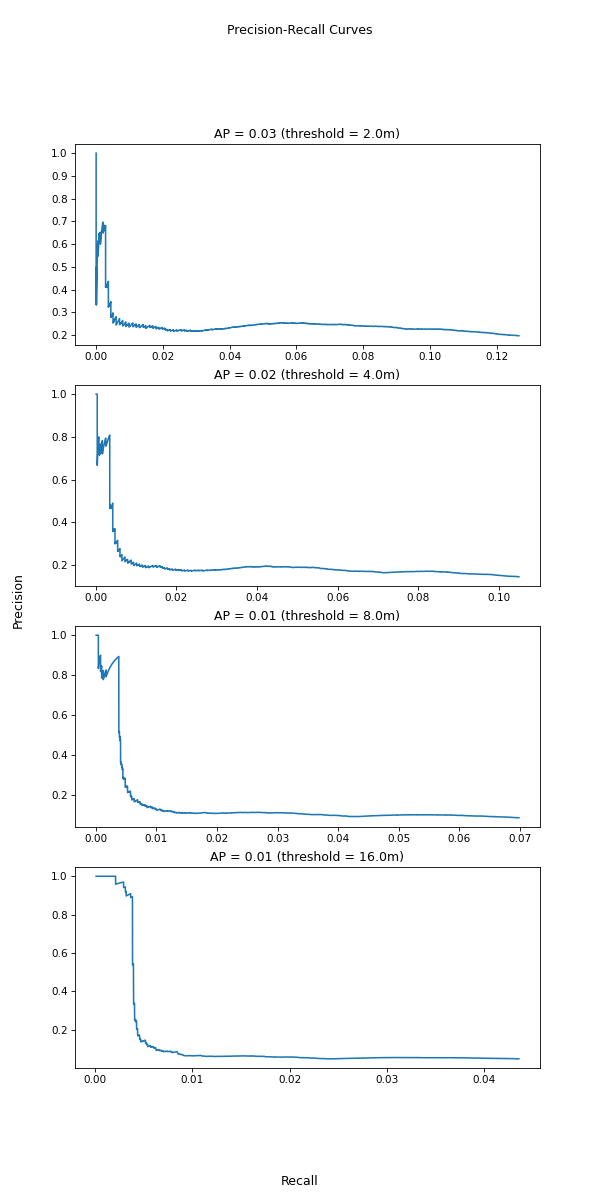
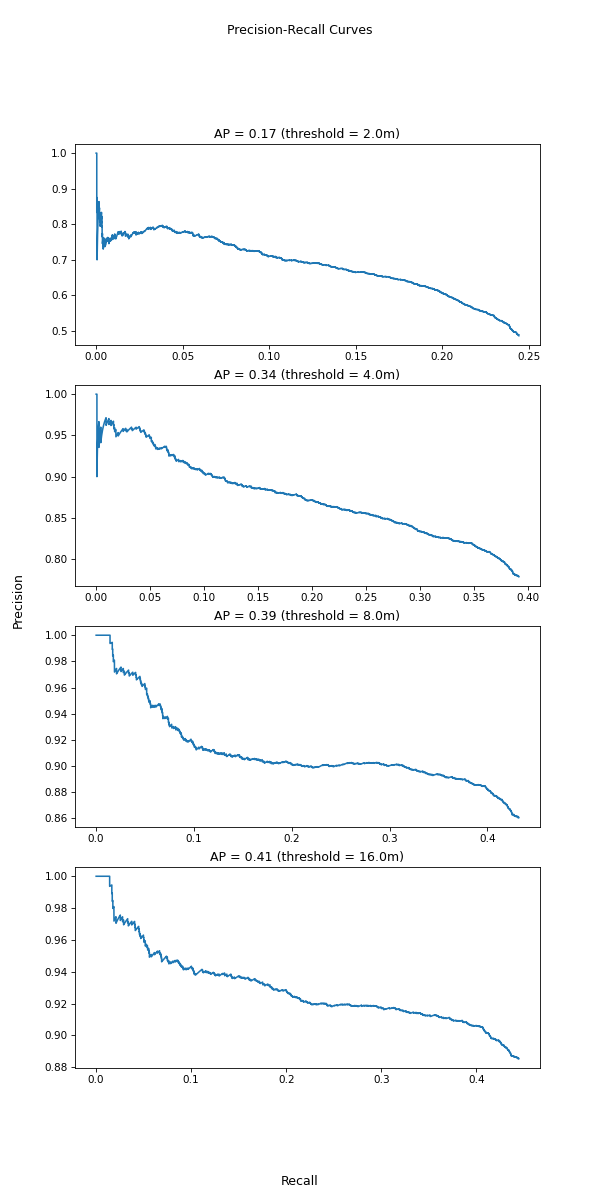
re-implement 2.3 following TA's instructions, with outputs

diff --git a/detection/metrics/average_precision.py b/detection/metrics/average_precision.py
@@ -63,52 +63,63 @@ def compute_precision_recall_curve(
         A precision/recall curve.
     """
     # TODO: Replace this stub code.
-    detections = torch.tensor([])
-    labels = torch.tensor([])
-    scores = torch.tensor([])
-    for i, frame in enumerate(frames):
+    all_detections_binary = torch.tensor([])
+    labels_count = 0
+    all_scores = torch.tensor([])
+    for _, frame in enumerate(frames):
         batch_detections = frame.detections.centroids
-        detections = torch.cat((detections, batch_detections), dim=0)
         batch_labels = frame.labels.centroids
-        labels = torch.cat((labels, batch_labels), dim=0)
         batch_scores = frame.detections.scores
-        scores = torch.cat((scores, batch_scores), dim=0)
+        d = batch_detections.shape[0]
+        l = batch_labels.shape[0]
+        labels_count += l
 
-    D = detections.shape[0]
-    L = labels.shape[0]
-    precision = torch.zeros(D)
-    recall = torch.zeros(D)
-    # from high to low
-    _ , indices = torch.sort(scores, descending=True)
-    sorted_detections = detections[indices, :]
-    
-    # whether distance between i-th detection and j-th label  <= threshold is in truth_table[j][i]
-    # 
-    # whether i-th detection matches j-th label                            is in match_table[j][i]
-    #
-    #                        detection
-    #         [   [                              ],
-    # labels      [                              ] ]
-    #
-    truth_table = ((sorted_detections.reshape(1, D, 2) - labels.reshape(L, 1, 2)).norm(dim=-1) <= threshold).long().to('cuda')
-    # in each row, only first 1 should be kept. Remove others 
-    max_ix_d = truth_table.argmax(dim=-1)
-    max_ix_2d = torch.stack([torch.arange(L).to('cuda'), max_ix_d], dim=-1)
-    match_table = torch.zeros(truth_table.shape).to('cuda')
-    match_table[max_ix_2d[:, 0], max_ix_2d[:, 1]] = 1
-    indices = truth_table.sum(dim=-1) == 0
-    match_table[indices] = 0
-    
-    for i in range(D):
-        TP = match_table[:i+1, :].any(dim=0).sum().item()
-        FP = i + 1 - TP
-        FN = L - match_table[:i+1, :].any(dim=1).sum().item()
+        # in binary array, 0 means unmatched and 1 means matched
+        detections_match_binary = torch.zeros(d)
+        labels_match_binary = torch.zeros(l)
+        
+        # in each frame, sort dectections with scores (high score ~ low score)
+        sorted_scores, indices = torch.sort(batch_scores, descending=True)
+        sorted_detections = batch_detections[indices, :]
+        
+        # distance_table[j][i] =  i-th detection ~ j-th label
+        distance_table = (sorted_detections.reshape(1, d, 2) - batch_labels.reshape(l, 1, 2)).norm(dim=-1)
 
-        precision[i] = TP / (TP + FP)
-        recall[i] = TP / (TP + FN)
+        # in distance_table, if distance > threshold, then set the entry as 0
+        mask = distance_table <= threshold
+        masked_distance_table = distance_table * mask.long()
+        
+        # find a label for i-th detection. If the label is found, mark 1 in the corresponding indexes in <detections_match_binary> and <labels_match_binary>
+        # loop from detections with high scores to low
+        for i in range(d):
+            distances = masked_distance_table[:, i].reshape(l)
+            # If the label is matched, then set the element in distance array as 0
+            labels_binary_mask = (labels_match_binary == 0).long()
+            masked_distances = distances * labels_binary_mask
+            # indexs of available labels
+            positive_distances_indices = masked_distances.nonzero().flatten()
+            # sorted indexs of available labels, from smallest distance to largest
+            _, labels_indices = masked_distances[positive_distances_indices].sort()
+            if len(labels_indices):
+                first_available_labels_ix = labels_indices[0]
+                labels_match_binary[first_available_labels_ix] = 1
+                detections_match_binary[i] = 1
+        
+        all_scores = torch.cat((all_scores, sorted_scores), dim=0)
+        all_detections_binary = torch.cat((all_detections_binary, detections_match_binary), dim=0)
+
+    detections_count = len(all_detections_binary)
+    
+    # sort detections with corresponding scores
+    _, indices = all_scores.sort(descending=True)
+    sorted_detections_binary = all_detections_binary[indices]
+    
+    # calculate precision and recall
+    TP = sorted_detections_binary.cumsum(dim=0)
+    precision = TP / torch.arange(1, detections_count + 1)
+    recall = TP / labels_count
 
     return PRCurve(precision, recall)
-
 
 def compute_area_under_curve(curve: PRCurve) -> float:
     """Return the area under the given curve.
